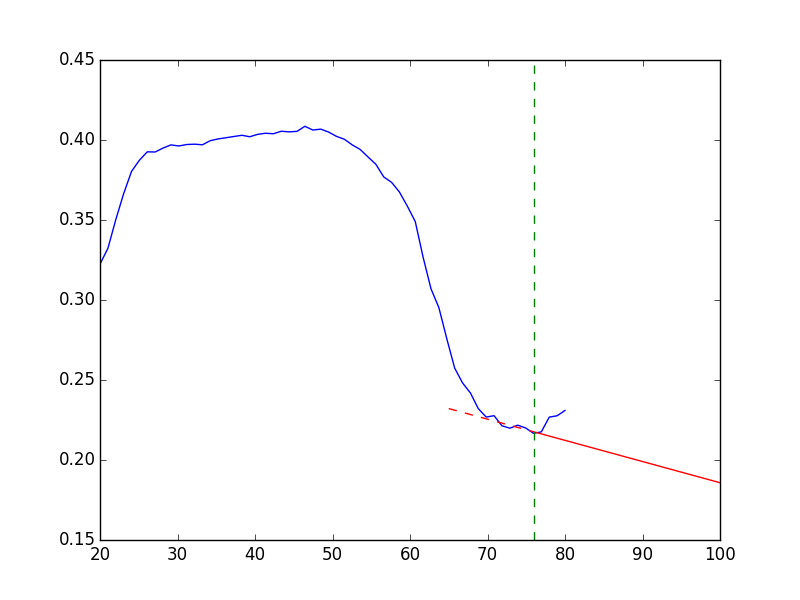
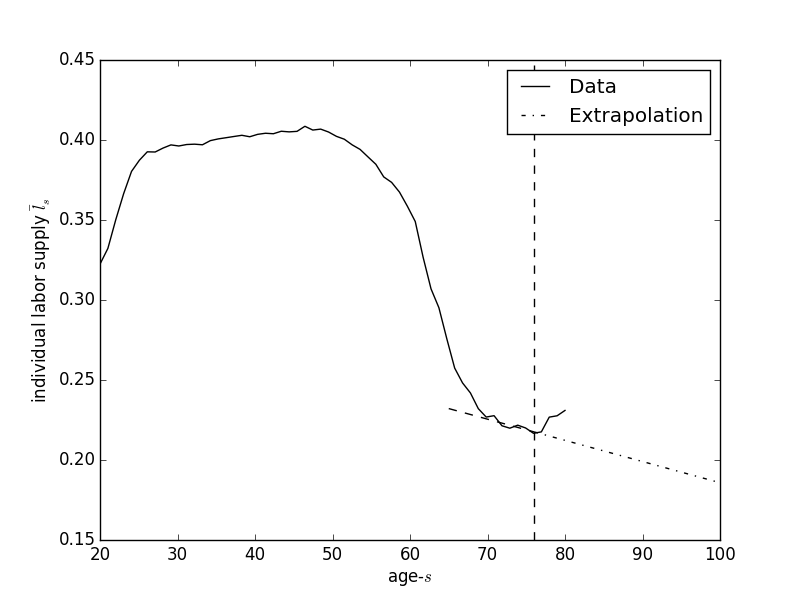
labor graphs

diff --git a/Python/labor_data.py b/Python/labor_data.py
@@ -61,10 +61,13 @@ X, Y = np.meshgrid(domain, Jgrid)
 cmap2 = matplotlib.cm.get_cmap('summer')
 
 
-plt.plot(domain, weighted)
-plt.plot(np.linspace(76, 100, 23), extension, color='red')
-plt.plot(np.linspace(65, 76, 11), to_dot, linestyle='--', color='red')
-plt.axvline(x=76, color='green', linestyle='--')
+plt.plot(domain, weighted, color='black', label='Data')
+plt.plot(np.linspace(76, 100, 23), extension, color='black', linestyle='-.', label='Extrapolation')
+plt.plot(np.linspace(65, 76, 11), to_dot, linestyle='--', color='black')
+plt.axvline(x=76, color='black', linestyle='--')
+plt.xlabel(r'age-$s$')
+plt.ylabel(r'individual labor supply $\bar{l}_s$')
+plt.legend()
 plt.savefig('OUTPUT/Demographics/labor_dist_data_withfit.png')
 
 fig10 = plt.figure()

diff --git a/Python/OUTPUT/wealth_read.py b/Python/OUTPUT/wealth_read.py
@@ -1,7 +1,7 @@
 import pickle
 import numpy
 
-variables = pickle.load(open("given_params.pkl", "r"))
+variables = pickle.load(open("SSinit/ss_init.pkl", "r"))
 for key in variables:
     globals()[key] = variables[key]
 
@@ -9,3 +9,5 @@ print bin_weights
 print (Kssmat2*omega_SS).sum(0)/bin_weights
 
 print factor_ss
+
+print chi_b
